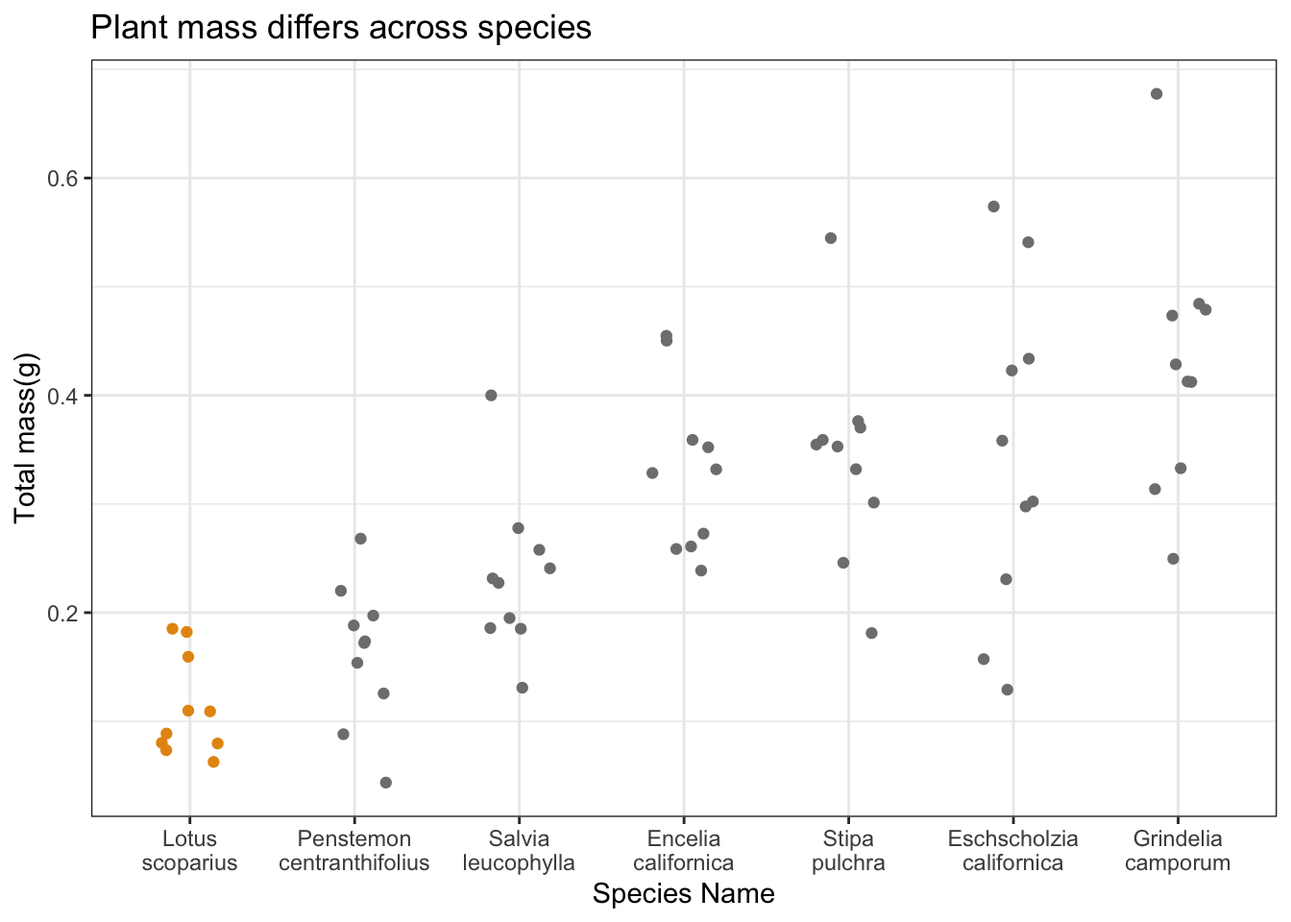
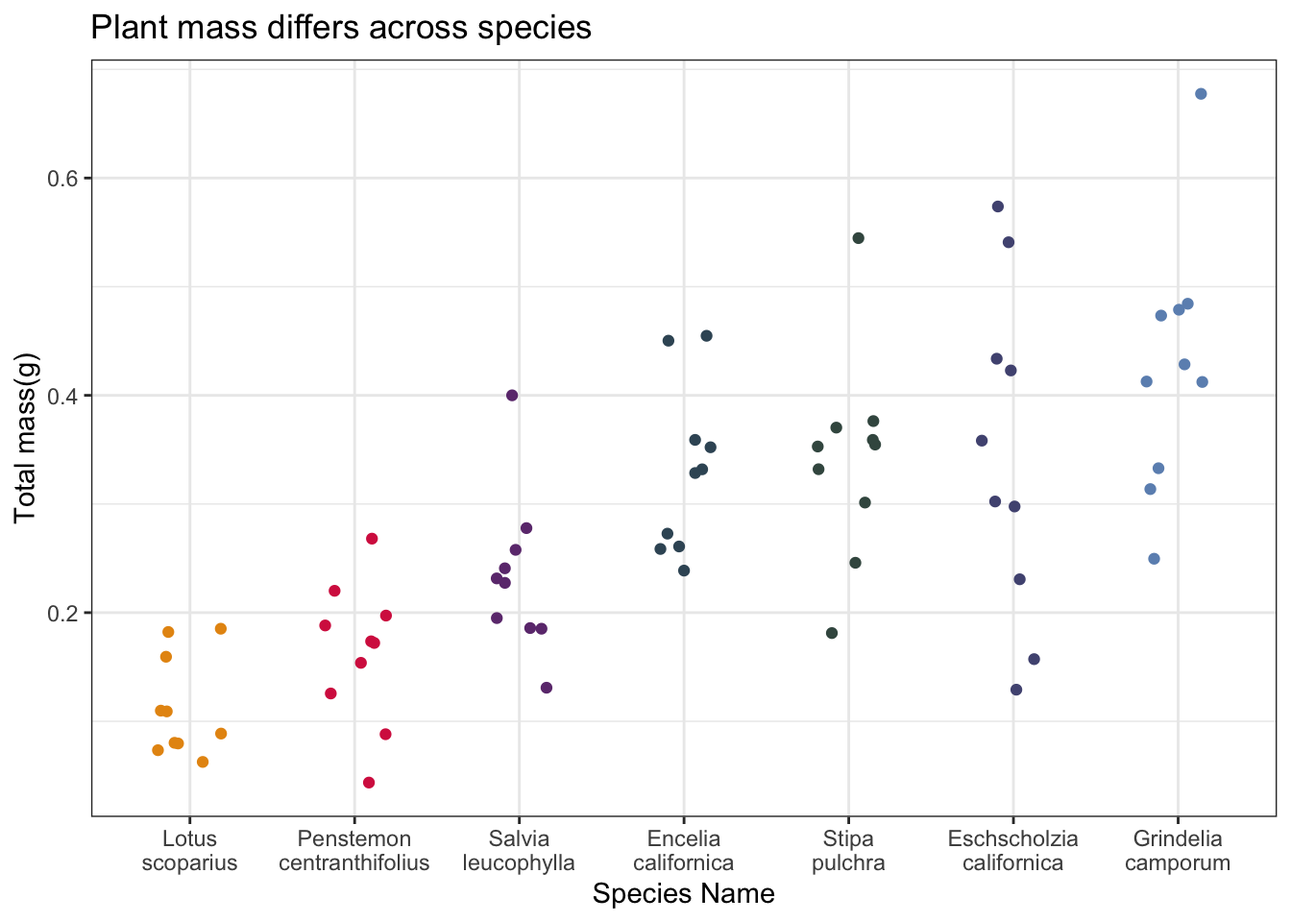
making changes in code

diff --git a/code/workshop-code.html b/code/workshop-code.html
@@ -73,6 +73,35 @@ pre > code.sourceCode > span > a:first-child::before { text-decoration: underlin
 <link href="workshop-code_files/libs/bootstrap/bootstrap-icons.css" rel="stylesheet">
 <link href="workshop-code_files/libs/bootstrap/bootstrap-d6a003b94517c951b2d65075d42fb01b.min.css" rel="stylesheet" append-hash="true" id="quarto-bootstrap" data-mode="light">
 
+  <script src="https://cdnjs.cloudflare.com/polyfill/v3/polyfill.min.js?features=es6"></script>
+  <script src="https://cdn.jsdelivr.net/npm/mathjax@3/es5/tex-chtml-full.js" type="text/javascript"></script>
+
+<script type="text/javascript">
+const typesetMath = (el) => {
+  if (window.MathJax) {
+    // MathJax Typeset
+    window.MathJax.typeset([el]);
+  } else if (window.katex) {
+    // KaTeX Render
+    var mathElements = el.getElementsByClassName("math");
+    var macros = [];
+    for (var i = 0; i < mathElements.length; i++) {
+      var texText = mathElements[i].firstChild;
+      if (mathElements[i].tagName == "SPAN" && texText && texText.data) {
+        window.katex.render(texText.data, mathElements[i], {
+          displayMode: mathElements[i].classList.contains('display'),
+          throwOnError: false,
+          macros: macros,
+          fleqn: false
+        });
+      }
+    }
+  }
+}
+window.Quarto = {
+  typesetMath
+};
+</script>
 
 </head>
 
@@ -300,18 +329,18 @@ pre > code.sourceCode > span > a:first-child::before { text-decoration: underlin
 <span id="cb6-4"><a href="#cb6-4" aria-hidden="true" tabindex="-1"></a>)</span></code></pre></div><button title="Copy to Clipboard" class="code-copy-button"><i class="bi"></i></button></div>
 <div class="cell-output cell-output-stdout">
 <pre><code># A tibble: 10 × 4
-   species_name               water_treatment    sla total_g
-   &lt;fct&gt;                      &lt;fct&gt;            &lt;dbl&gt;   &lt;dbl&gt;
- 1 Penstemon centranthifolius Drought stressed 179.   0.0436
- 2 Encelia californica        Well watered     170.   0.455 
- 3 Lotus scoparius            Well watered     121.   0.0887
- 4 Grindelia camporum         Well watered     213.   0.678 
- 5 Grindelia camporum         Well watered     205.   0.412 
- 6 Encelia californica        Drought stressed 196.   0.239 
- 7 Grindelia camporum         Drought stressed 172.   0.333 
- 8 Salvia leucophylla         Drought stressed  96.1  0.278 
- 9 Encelia californica        Drought stressed 192.   0.261 
-10 Encelia californica        Drought stressed 171.   0.259 </code></pre>
+   species_name        water_treatment    sla total_g
+   &lt;fct&gt;               &lt;fct&gt;            &lt;dbl&gt;   &lt;dbl&gt;
+ 1 Encelia californica Well watered      222.   0.352
+ 2 Stipa pulchra       Well watered      234.   0.545
+ 3 Grindelia camporum  Well watered      213.   0.678
+ 4 Lotus scoparius     Well watered      123.   0.182
+ 5 Lotus scoparius     Well watered      140.   0.110
+ 6 Grindelia camporum  Drought stressed  171.   0.250
+ 7 Encelia californica Drought stressed  161.   0.273
+ 8 Stipa pulchra       Drought stressed  140.   0.359
+ 9 Encelia californica Well watered      215.   0.328
+10 Grindelia camporum  Well watered      221.   0.473</code></pre>
 </div>
 </div>
 </section>
@@ -385,12 +414,12 @@ pre > code.sourceCode > span > a:first-child::before { text-decoration: underlin
 <span id="cb10-7"><a href="#cb10-7" aria-hidden="true" tabindex="-1"></a>              <span class="at">width =</span> <span class="fl">0.2</span>) <span class="sc">+</span></span>
 <span id="cb10-8"><a href="#cb10-8" aria-hidden="true" tabindex="-1"></a>  <span class="fu">scale_color_manual</span>(<span class="at">values =</span> <span class="fu">c</span>(</span>
 <span id="cb10-9"><a href="#cb10-9" aria-hidden="true" tabindex="-1"></a>    <span class="st">"Lotus scoparius"</span> <span class="ot">=</span> lotsco_col,</span>
-<span id="cb10-10"><a href="#cb10-10" aria-hidden="true" tabindex="-1"></a>    <span class="st">"enstameon centrathifolius"</span> <span class="ot">=</span> pencen_col,</span>
-<span id="cb10-11"><a href="#cb10-11" aria-hidden="true" tabindex="-1"></a>    <span class="st">"salvia leucophylla"</span> <span class="ot">=</span> salleu_col,</span>
-<span id="cb10-12"><a href="#cb10-12" aria-hidden="true" tabindex="-1"></a>    <span class="st">"encelia californica"</span> <span class="ot">=</span> enccal_col,</span>
-<span id="cb10-13"><a href="#cb10-13" aria-hidden="true" tabindex="-1"></a>    <span class="st">"sripe pulchra"</span> <span class="ot">=</span> stipul_col,</span>
-<span id="cb10-14"><a href="#cb10-14" aria-hidden="true" tabindex="-1"></a>    <span class="st">"eschsechalzia californica"</span> <span class="ot">=</span> esccal_col,</span>
-<span id="cb10-15"><a href="#cb10-15" aria-hidden="true" tabindex="-1"></a>    <span class="st">"grindelia camporum"</span> <span class="ot">=</span> gricam_col</span>
+<span id="cb10-10"><a href="#cb10-10" aria-hidden="true" tabindex="-1"></a>    <span class="st">"Penstemon centranthifolius"</span> <span class="ot">=</span> pencen_col,</span>
+<span id="cb10-11"><a href="#cb10-11" aria-hidden="true" tabindex="-1"></a>    <span class="st">"Salvia leucophylla"</span> <span class="ot">=</span> salleu_col,</span>
+<span id="cb10-12"><a href="#cb10-12" aria-hidden="true" tabindex="-1"></a>    <span class="st">"Encelia californica"</span> <span class="ot">=</span> enccal_col,</span>
+<span id="cb10-13"><a href="#cb10-13" aria-hidden="true" tabindex="-1"></a>    <span class="st">"Stipa pulchra"</span> <span class="ot">=</span> stipul_col,</span>
+<span id="cb10-14"><a href="#cb10-14" aria-hidden="true" tabindex="-1"></a>    <span class="st">"Eschscholzia californica"</span> <span class="ot">=</span> esccal_col,</span>
+<span id="cb10-15"><a href="#cb10-15" aria-hidden="true" tabindex="-1"></a>    <span class="st">"Grindelia camporum"</span> <span class="ot">=</span> gricam_col</span>
 <span id="cb10-16"><a href="#cb10-16" aria-hidden="true" tabindex="-1"></a>  )) <span class="sc">+</span></span>
 <span id="cb10-17"><a href="#cb10-17" aria-hidden="true" tabindex="-1"></a>  <span class="fu">scale_x_discrete</span>(<span class="at">labels =</span> <span class="fu">label_wrap</span>(<span class="dv">10</span>)) <span class="sc">+</span></span>
 <span id="cb10-18"><a href="#cb10-18" aria-hidden="true" tabindex="-1"></a>  <span class="fu">labs</span>(<span class="at">x =</span> <span class="st">"Species Name"</span>,</span>
@@ -490,55 +519,151 @@ pre > code.sourceCode > span > a:first-child::before { text-decoration: underlin
 <h2 class="anchored" data-anchor-id="model-fitting">Model fitting</h2>
 <div class="cell">
 <div class="code-copy-outer-scaffold"><div class="sourceCode cell-code" id="cb11"><pre class="sourceCode r code-with-copy"><code class="sourceCode r"><span id="cb11-1"><a href="#cb11-1" aria-hidden="true" tabindex="-1"></a><span class="co"># model 0: null model</span></span>
-<span id="cb11-2"><a href="#cb11-2" aria-hidden="true" tabindex="-1"></a></span>
-<span id="cb11-3"><a href="#cb11-3" aria-hidden="true" tabindex="-1"></a></span>
-<span id="cb11-4"><a href="#cb11-4" aria-hidden="true" tabindex="-1"></a><span class="co"># model 1: all predictors</span></span>
-<span id="cb11-5"><a href="#cb11-5" aria-hidden="true" tabindex="-1"></a></span>
+<span id="cb11-2"><a href="#cb11-2" aria-hidden="true" tabindex="-1"></a>model0 <span class="ot">&lt;-</span> <span class="fu">lm</span>(</span>
+<span id="cb11-3"><a href="#cb11-3" aria-hidden="true" tabindex="-1"></a>  total_g <span class="sc">~</span> <span class="dv">1</span>, <span class="co"># no predictors in this model</span></span>
+<span id="cb11-4"><a href="#cb11-4" aria-hidden="true" tabindex="-1"></a>  <span class="at">data =</span> drought_exp_clean</span>
+<span id="cb11-5"><a href="#cb11-5" aria-hidden="true" tabindex="-1"></a>)</span>
 <span id="cb11-6"><a href="#cb11-6" aria-hidden="true" tabindex="-1"></a></span>
-<span id="cb11-7"><a href="#cb11-7" aria-hidden="true" tabindex="-1"></a><span class="co"># model 2: SLA and water treatment</span></span>
-<span id="cb11-8"><a href="#cb11-8" aria-hidden="true" tabindex="-1"></a></span>
-<span id="cb11-9"><a href="#cb11-9" aria-hidden="true" tabindex="-1"></a></span>
-<span id="cb11-10"><a href="#cb11-10" aria-hidden="true" tabindex="-1"></a><span class="co"># model 3: SLA and species</span></span>
-<span id="cb11-11"><a href="#cb11-11" aria-hidden="true" tabindex="-1"></a></span>
+<span id="cb11-7"><a href="#cb11-7" aria-hidden="true" tabindex="-1"></a><span class="co"># model 1: all predictors</span></span>
+<span id="cb11-8"><a href="#cb11-8" aria-hidden="true" tabindex="-1"></a>model1 <span class="ot">&lt;-</span> <span class="fu">lm</span>(</span>
+<span id="cb11-9"><a href="#cb11-9" aria-hidden="true" tabindex="-1"></a>  total_g <span class="sc">~</span> sla <span class="sc">+</span> water_treatment <span class="sc">+</span> species_name,</span>
+<span id="cb11-10"><a href="#cb11-10" aria-hidden="true" tabindex="-1"></a>  <span class="at">data =</span> drought_exp_clean</span>
+<span id="cb11-11"><a href="#cb11-11" aria-hidden="true" tabindex="-1"></a>)</span>
 <span id="cb11-12"><a href="#cb11-12" aria-hidden="true" tabindex="-1"></a></span>
-<span id="cb11-13"><a href="#cb11-13" aria-hidden="true" tabindex="-1"></a><span class="co"># model 4: water treatment and species</span></span>
-<span id="cb11-14"><a href="#cb11-14" aria-hidden="true" tabindex="-1"></a></span>
-<span id="cb11-15"><a href="#cb11-15" aria-hidden="true" tabindex="-1"></a></span>
-<span id="cb11-16"><a href="#cb11-16" aria-hidden="true" tabindex="-1"></a><span class="co"># model 5: SLA</span></span>
-<span id="cb11-17"><a href="#cb11-17" aria-hidden="true" tabindex="-1"></a></span>
-<span id="cb11-18"><a href="#cb11-18" aria-hidden="true" tabindex="-1"></a></span>
-<span id="cb11-19"><a href="#cb11-19" aria-hidden="true" tabindex="-1"></a><span class="co"># model 6: water treatment</span></span>
-<span id="cb11-20"><a href="#cb11-20" aria-hidden="true" tabindex="-1"></a></span>
-<span id="cb11-21"><a href="#cb11-21" aria-hidden="true" tabindex="-1"></a></span>
-<span id="cb11-22"><a href="#cb11-22" aria-hidden="true" tabindex="-1"></a><span class="co"># model 7: species</span></span></code></pre></div><button title="Copy to Clipboard" class="code-copy-button"><i class="bi"></i></button></div>
+<span id="cb11-13"><a href="#cb11-13" aria-hidden="true" tabindex="-1"></a><span class="co"># model 2: SLA and water treatment</span></span>
+<span id="cb11-14"><a href="#cb11-14" aria-hidden="true" tabindex="-1"></a>model2 <span class="ot">&lt;-</span> <span class="fu">lm</span>(</span>
+<span id="cb11-15"><a href="#cb11-15" aria-hidden="true" tabindex="-1"></a>  total_g <span class="sc">~</span> sla <span class="sc">+</span> water_treatment,</span>
+<span id="cb11-16"><a href="#cb11-16" aria-hidden="true" tabindex="-1"></a>  <span class="at">data =</span> drought_exp_clean</span>
+<span id="cb11-17"><a href="#cb11-17" aria-hidden="true" tabindex="-1"></a>)</span>
+<span id="cb11-18"><a href="#cb11-18" aria-hidden="true" tabindex="-1"></a><span class="co"># model 3: SLA and species</span></span>
+<span id="cb11-19"><a href="#cb11-19" aria-hidden="true" tabindex="-1"></a></span>
+<span id="cb11-20"><a href="#cb11-20" aria-hidden="true" tabindex="-1"></a>model3 <span class="ot">&lt;-</span> <span class="fu">lm</span>(</span>
+<span id="cb11-21"><a href="#cb11-21" aria-hidden="true" tabindex="-1"></a>  total_g <span class="sc">~</span> sla <span class="sc">+</span> species_name,</span>
+<span id="cb11-22"><a href="#cb11-22" aria-hidden="true" tabindex="-1"></a>  <span class="at">data =</span> drought_exp_clean</span>
+<span id="cb11-23"><a href="#cb11-23" aria-hidden="true" tabindex="-1"></a>)</span>
+<span id="cb11-24"><a href="#cb11-24" aria-hidden="true" tabindex="-1"></a><span class="co"># model 4: water treatment and species</span></span>
+<span id="cb11-25"><a href="#cb11-25" aria-hidden="true" tabindex="-1"></a></span>
+<span id="cb11-26"><a href="#cb11-26" aria-hidden="true" tabindex="-1"></a>model4 <span class="ot">&lt;-</span> <span class="fu">lm</span>(</span>
+<span id="cb11-27"><a href="#cb11-27" aria-hidden="true" tabindex="-1"></a>  total_g <span class="sc">~</span> water_treatment <span class="sc">+</span> species_name,</span>
+<span id="cb11-28"><a href="#cb11-28" aria-hidden="true" tabindex="-1"></a>  <span class="at">data =</span> drought_exp_clean</span>
+<span id="cb11-29"><a href="#cb11-29" aria-hidden="true" tabindex="-1"></a>)</span>
+<span id="cb11-30"><a href="#cb11-30" aria-hidden="true" tabindex="-1"></a><span class="co"># model 5: SLA</span></span>
+<span id="cb11-31"><a href="#cb11-31" aria-hidden="true" tabindex="-1"></a>model5 <span class="ot">&lt;-</span> <span class="fu">lm</span>(</span>
+<span id="cb11-32"><a href="#cb11-32" aria-hidden="true" tabindex="-1"></a>  total_g <span class="sc">~</span> sla,</span>
+<span id="cb11-33"><a href="#cb11-33" aria-hidden="true" tabindex="-1"></a>  <span class="at">data =</span> drought_exp_clean</span>
+<span id="cb11-34"><a href="#cb11-34" aria-hidden="true" tabindex="-1"></a>)</span>
+<span id="cb11-35"><a href="#cb11-35" aria-hidden="true" tabindex="-1"></a></span>
+<span id="cb11-36"><a href="#cb11-36" aria-hidden="true" tabindex="-1"></a><span class="co"># model 6: water treatment</span></span>
+<span id="cb11-37"><a href="#cb11-37" aria-hidden="true" tabindex="-1"></a>model6 <span class="ot">&lt;-</span> <span class="fu">lm</span>(</span>
+<span id="cb11-38"><a href="#cb11-38" aria-hidden="true" tabindex="-1"></a>  total_g <span class="sc">~</span> water_treatment,</span>
+<span id="cb11-39"><a href="#cb11-39" aria-hidden="true" tabindex="-1"></a>  <span class="at">data =</span> drought_exp_clean</span>
+<span id="cb11-40"><a href="#cb11-40" aria-hidden="true" tabindex="-1"></a>)</span>
+<span id="cb11-41"><a href="#cb11-41" aria-hidden="true" tabindex="-1"></a></span>
+<span id="cb11-42"><a href="#cb11-42" aria-hidden="true" tabindex="-1"></a><span class="co"># model 7: species</span></span>
+<span id="cb11-43"><a href="#cb11-43" aria-hidden="true" tabindex="-1"></a>model7 <span class="ot">&lt;-</span> <span class="fu">lm</span>(</span>
+<span id="cb11-44"><a href="#cb11-44" aria-hidden="true" tabindex="-1"></a>  total_g <span class="sc">~</span> species_name,</span>
+<span id="cb11-45"><a href="#cb11-45" aria-hidden="true" tabindex="-1"></a>  <span class="at">data =</span> drought_exp_clean</span>
+<span id="cb11-46"><a href="#cb11-46" aria-hidden="true" tabindex="-1"></a>)</span></code></pre></div><button title="Copy to Clipboard" class="code-copy-button"><i class="bi"></i></button></div>
 </div>
 </section>
 <section id="model-selection" class="level2">
 <h2 class="anchored" data-anchor-id="model-selection">Model selection</h2>
 <p>Insert code to use the <code>AICc()</code> function to calculate the AIC for each model.</p>
 <p>Arrange by decreasing AIC.</p>
+<div class="cell">
+<div class="code-copy-outer-scaffold"><div class="sourceCode cell-code" id="cb12"><pre class="sourceCode r code-with-copy"><code class="sourceCode r"><span id="cb12-1"><a href="#cb12-1" aria-hidden="true" tabindex="-1"></a><span class="fu">AICc</span>(</span>
+<span id="cb12-2"><a href="#cb12-2" aria-hidden="true" tabindex="-1"></a>  model0,</span>
+<span id="cb12-3"><a href="#cb12-3" aria-hidden="true" tabindex="-1"></a>  model1,</span>
+<span id="cb12-4"><a href="#cb12-4" aria-hidden="true" tabindex="-1"></a>  model2,</span>
+<span id="cb12-5"><a href="#cb12-5" aria-hidden="true" tabindex="-1"></a>  model3,</span>
+<span id="cb12-6"><a href="#cb12-6" aria-hidden="true" tabindex="-1"></a>  model4,</span>
+<span id="cb12-7"><a href="#cb12-7" aria-hidden="true" tabindex="-1"></a>  model5,</span>
+<span id="cb12-8"><a href="#cb12-8" aria-hidden="true" tabindex="-1"></a>  model6,</span>
+<span id="cb12-9"><a href="#cb12-9" aria-hidden="true" tabindex="-1"></a>  model7</span>
+<span id="cb12-10"><a href="#cb12-10" aria-hidden="true" tabindex="-1"></a>) <span class="sc">|&gt;</span> </span>
+<span id="cb12-11"><a href="#cb12-11" aria-hidden="true" tabindex="-1"></a>  <span class="fu">arrange</span>(AICc)</span></code></pre></div><button title="Copy to Clipboard" class="code-copy-button"><i class="bi"></i></button></div>
+<div class="cell-output cell-output-stdout">
+<pre><code>       df       AICc
+model4  9 -156.19595
+model1 10 -153.75361
+model3  9 -124.07569
+model7  8 -120.30191
+model2  4  -95.82521
+model5  3  -88.85180
+model6  3  -86.76661
+model0  2  -74.98036</code></pre>
+</div>
+</div>
+<p>The best model to describe variation in plant mass only includes water treatment and species.</p>
 </section>
 <section id="model-diagnostics" class="level2">
 <h2 class="anchored" data-anchor-id="model-diagnostics">Model diagnostics</h2>
 <p>Insert code to look at the diagnostic plots for the best model.</p>
+<div class="cell">
+<div class="code-copy-outer-scaffold"><div class="sourceCode cell-code" id="cb14"><pre class="sourceCode r code-with-copy"><code class="sourceCode r"><span id="cb14-1"><a href="#cb14-1" aria-hidden="true" tabindex="-1"></a><span class="fu">par</span>(<span class="at">mfrow =</span> <span class="fu">c</span>(<span class="dv">2</span>,<span class="dv">2</span>)) <span class="co"># display plots in a 2x2 grid</span></span>
+<span id="cb14-2"><a href="#cb14-2" aria-hidden="true" tabindex="-1"></a><span class="fu">plot</span>(model4) <span class="co">#model to check diagnostics</span></span></code></pre></div><button title="Copy to Clipboard" class="code-copy-button"><i class="bi"></i></button></div>
+<div class="cell-output-display">
+<div>
+<figure class="figure">
+<p><img src="workshop-code_files/figure-html/checking%20diagnostics-1.png" class="img-fluid figure-img" width="672"></p>
+</figure>
+</div>
+</div>
+</div>
+<p>Diagnostics plot look good Residuals (standing in for errors) No outliers influencing model estimates of coefficients.</p>
 </section>
 <section id="summary" class="level2">
 <h2 class="anchored" data-anchor-id="summary">Summary</h2>
 <p>Insert code to display the summary for the best model.</p>
+<div class="cell">
+<div class="code-copy-outer-scaffold"><div class="sourceCode cell-code" id="cb15"><pre class="sourceCode r code-with-copy"><code class="sourceCode r"><span id="cb15-1"><a href="#cb15-1" aria-hidden="true" tabindex="-1"></a><span class="fu">summary</span>(model4)</span></code></pre></div><button title="Copy to Clipboard" class="code-copy-button"><i class="bi"></i></button></div>
+<div class="cell-output cell-output-stdout">
+<pre><code>
+Call:
+lm(formula = total_g ~ water_treatment + species_name, data = drought_exp_clean)
+
+Residuals:
+      Min        1Q    Median        3Q       Max 
+-0.157087 -0.046953 -0.003733  0.041244  0.192657 
+
+Coefficients:
+                                       Estimate Std. Error t value Pr(&gt;|t|)    
+(Intercept)                             0.05455    0.02451   2.225  0.02973 *  
+water_treatmentWell watered             0.11695    0.01733   6.746 5.90e-09 ***
+species_namePenstemon centranthifolius  0.05003    0.03243   1.543  0.12799    
+species_nameSalvia leucophylla          0.12020    0.03243   3.706  0.00045 ***
+species_nameEncelia californica         0.21774    0.03243   6.714 6.70e-09 ***
+species_nameStipa pulchra               0.22881    0.03243   7.055 1.72e-09 ***
+species_nameEschscholzia californica    0.23164    0.03243   7.143 1.22e-09 ***
+species_nameGrindelia camporum          0.31335    0.03243   9.662 5.53e-14 ***
+---
+Signif. codes:  0 '***' 0.001 '**' 0.01 '*' 0.05 '.' 0.1 ' ' 1
+
+Residual standard error: 0.07252 on 62 degrees of freedom
+Multiple R-squared:  0.7535,    Adjusted R-squared:  0.7257 
+F-statistic: 27.08 on 7 and 62 DF,  p-value: &lt; 2.2e-16</code></pre>
+</div>
+</div>
 <p><strong>What are the reference levels?</strong></p>
+<p>Drought stressed and Lotus scoparius.</p>
 <p><strong>What does the <code>(Intercept)</code> represent?</strong></p>
+<p>The intercept is the model prediction for plant mass for Lotus scoparius in the drought stressed treatment.The model predicts that lotus scoparius mass in the drought stressed treatment will be 0.055 <span class="math inline">\(\pm\)</span> 0.025 (SE) g.</p>
 <p><strong>What does <code>water_treatmentWell watered</code> represent?</strong></p>
-<p><strong>What does <code>species_namePenstemon centranthifolius</code> represent?</strong></p>
+<p>This is the model prediction for the difference for Lotus scoparius mass between the well watered and the drought stressed treatments. The model predicts that this difference is 0.12 <span class="math inline">\(\pm\)</span> 0.017 g.</p>
+<p><strong>What does <code>species_namePenstemon centranthifolius</code> represent?</strong><br>
+This is the model prediction for the difference between Penstemon centranthifolius mass in the well watered treatment and Lotus scoparius mass in the well watered treatment. The model predicts that this differnce is 0.05 <span class="math inline">\(\pm\)</span> 0.03 g.</p>
 <p><strong>What does <code>species_nameEschscholzia californica</code> represent?</strong></p>
+<p>This is the model prediction for the diffrence between Eschscholzia californica mass in the well watered treatment and Lotus scoparius mass in the well watered treatment. The model predicts that this difference is 0.23 <span class="math inline">\(\pm\)</span> 0.03g.</p>
 </section>
 <section id="stop-and-think-what-does-this-model-mean" class="level2">
 <h2 class="anchored" data-anchor-id="stop-and-think-what-does-this-model-mean">Stop and think: what does this model mean?</h2>
 <p><strong>What is the best model?</strong></p>
-<p>[insert your response here]</p>
+<p>The best model includes water treatment and species as predictors</p>
 <p><strong>How much variation in the response (total mass, in grams) does this model explain?</strong></p>
-<p>[insert your response here]</p>
+<p>72% of the cariation in plant mass can be explained by this model.</p>
 <p><strong>How do we interpret the effects of the predictors on the response variable (again, total mass in grams)?</strong></p>
-<p>[insert your response here]</p>
+<p>Treatment influences plant mass.</p>
+<p>Species influences plant mass.</p>
 </section>
 </section>
 <section id="model-predictions" class="level1">
@@ -546,10 +671,56 @@ pre > code.sourceCode > span > a:first-child::before { text-decoration: underlin
 <p>Insert code to generate model predictions for the best model.</p>
 <p>Rename the <code>x</code> column and <code>group</code> column to match the original data frame (<code>drought_exp_clean</code>).</p>
 <p>Look at the object before plotting.</p>
+<div class="cell">
+<div class="code-copy-outer-scaffold"><div class="sourceCode cell-code" id="cb17"><pre class="sourceCode r code-with-copy"><code class="sourceCode r"><span id="cb17-1"><a href="#cb17-1" aria-hidden="true" tabindex="-1"></a>preds <span class="ot">&lt;-</span> <span class="fu">ggpredict</span>(</span>
+<span id="cb17-2"><a href="#cb17-2" aria-hidden="true" tabindex="-1"></a>  model4,</span>
+<span id="cb17-3"><a href="#cb17-3" aria-hidden="true" tabindex="-1"></a>  <span class="at">terms =</span> <span class="fu">c</span>(<span class="st">"water_treatment"</span>,<span class="st">"species_name"</span>)</span>
+<span id="cb17-4"><a href="#cb17-4" aria-hidden="true" tabindex="-1"></a>) <span class="sc">|&gt;</span></span>
+<span id="cb17-5"><a href="#cb17-5" aria-hidden="true" tabindex="-1"></a>  <span class="fu">rename</span>(<span class="at">water_treatment =</span> x,</span>
+<span id="cb17-6"><a href="#cb17-6" aria-hidden="true" tabindex="-1"></a>         <span class="at">species_name =</span> group)</span></code></pre></div><button title="Copy to Clipboard" class="code-copy-button"><i class="bi"></i></button></div>
+</div>
 </section>
 <section id="final-figure" class="level1">
 <h1>5. Final figure</h1>
 <p>Create a clean, publication ready figure depicting predictions for the best model and the underlying data.</p>
+<div class="cell">
+<div class="code-copy-outer-scaffold"><div class="sourceCode cell-code" id="cb18"><pre class="sourceCode r code-with-copy"><code class="sourceCode r"><span id="cb18-1"><a href="#cb18-1" aria-hidden="true" tabindex="-1"></a><span class="fu">ggplot</span>(<span class="at">data =</span> drought_exp_clean,</span>
+<span id="cb18-2"><a href="#cb18-2" aria-hidden="true" tabindex="-1"></a>       <span class="fu">aes</span>(<span class="at">x =</span> species_name,</span>
+<span id="cb18-3"><a href="#cb18-3" aria-hidden="true" tabindex="-1"></a>           <span class="at">y =</span> total_g,</span>
+<span id="cb18-4"><a href="#cb18-4" aria-hidden="true" tabindex="-1"></a>           <span class="at">color =</span> water_treatment)) <span class="sc">+</span></span>
+<span id="cb18-5"><a href="#cb18-5" aria-hidden="true" tabindex="-1"></a>  <span class="fu">geom_jitter</span>(<span class="at">height =</span> <span class="dv">0</span>,</span>
+<span id="cb18-6"><a href="#cb18-6" aria-hidden="true" tabindex="-1"></a>              <span class="at">width =</span> <span class="fl">0.2</span>,</span>
+<span id="cb18-7"><a href="#cb18-7" aria-hidden="true" tabindex="-1"></a>              <span class="at">alpha =</span> <span class="fl">0.5</span>) <span class="sc">+</span></span>
+<span id="cb18-8"><a href="#cb18-8" aria-hidden="true" tabindex="-1"></a>  <span class="fu">geom_pointrange</span>(<span class="at">data =</span> preds,</span>
+<span id="cb18-9"><a href="#cb18-9" aria-hidden="true" tabindex="-1"></a>                  <span class="fu">aes</span>(<span class="at">x =</span> water_treatment,</span>
+<span id="cb18-10"><a href="#cb18-10" aria-hidden="true" tabindex="-1"></a>                      <span class="at">y =</span> predicted,</span>
+<span id="cb18-11"><a href="#cb18-11" aria-hidden="true" tabindex="-1"></a>                      <span class="at">ymin =</span> conf.low,</span>
+<span id="cb18-12"><a href="#cb18-12" aria-hidden="true" tabindex="-1"></a>                      <span class="at">ymax =</span> conf.high)) <span class="sc">+</span></span>
+<span id="cb18-13"><a href="#cb18-13" aria-hidden="true" tabindex="-1"></a></span>
+<span id="cb18-14"><a href="#cb18-14" aria-hidden="true" tabindex="-1"></a>  <span class="fu">scale_color_manual</span>(<span class="at">values =</span> <span class="fu">c</span>(</span>
+<span id="cb18-15"><a href="#cb18-15" aria-hidden="true" tabindex="-1"></a>    <span class="st">"Lotus scoparius"</span> <span class="ot">=</span> lotsco_col,</span>
+<span id="cb18-16"><a href="#cb18-16" aria-hidden="true" tabindex="-1"></a>    <span class="st">"Penstemon centranthifolius"</span> <span class="ot">=</span> pencen_col,</span>
+<span id="cb18-17"><a href="#cb18-17" aria-hidden="true" tabindex="-1"></a>    <span class="st">"Salvia leucophylla"</span> <span class="ot">=</span> salleu_col,</span>
+<span id="cb18-18"><a href="#cb18-18" aria-hidden="true" tabindex="-1"></a>    <span class="st">"Encelia californica"</span> <span class="ot">=</span> enccal_col,</span>
+<span id="cb18-19"><a href="#cb18-19" aria-hidden="true" tabindex="-1"></a>    <span class="st">"Stipa pulchra"</span> <span class="ot">=</span> stipul_col,</span>
+<span id="cb18-20"><a href="#cb18-20" aria-hidden="true" tabindex="-1"></a>    <span class="st">"Eschscholzia californica"</span> <span class="ot">=</span> esccal_col,</span>
+<span id="cb18-21"><a href="#cb18-21" aria-hidden="true" tabindex="-1"></a>    <span class="st">"Grindelia camporum"</span> <span class="ot">=</span> gricam_col</span>
+<span id="cb18-22"><a href="#cb18-22" aria-hidden="true" tabindex="-1"></a>  )) <span class="sc">+</span></span>
+<span id="cb18-23"><a href="#cb18-23" aria-hidden="true" tabindex="-1"></a>  <span class="fu">scale_x_discrete</span>(<span class="at">labels =</span> <span class="fu">label_wrap</span>(<span class="dv">10</span>)) <span class="sc">+</span></span>
+<span id="cb18-24"><a href="#cb18-24" aria-hidden="true" tabindex="-1"></a>  <span class="fu">labs</span>(<span class="at">x =</span> <span class="st">"Species Name"</span>,</span>
+<span id="cb18-25"><a href="#cb18-25" aria-hidden="true" tabindex="-1"></a>       <span class="at">y =</span> <span class="st">"Total mass(g)"</span>,</span>
+<span id="cb18-26"><a href="#cb18-26" aria-hidden="true" tabindex="-1"></a>       <span class="at">title =</span> <span class="st">"Plant mass differs across species"</span>) <span class="sc">+</span></span>
+<span id="cb18-27"><a href="#cb18-27" aria-hidden="true" tabindex="-1"></a>  <span class="fu">theme</span>(<span class="at">legend.position =</span><span class="st">"none"</span>) <span class="sc">+</span></span>
+<span id="cb18-28"><a href="#cb18-28" aria-hidden="true" tabindex="-1"></a>  <span class="fu">facet_wrap</span>(<span class="sc">~</span> species_name,</span>
+<span id="cb18-29"><a href="#cb18-29" aria-hidden="true" tabindex="-1"></a>             <span class="at">nrow =</span> <span class="dv">1</span>)</span></code></pre></div><button title="Copy to Clipboard" class="code-copy-button"><i class="bi"></i></button></div>
+<div class="cell-output-display">
+<div>
+<figure class="figure">
+<p><img src="workshop-code_files/figure-html/unnamed-chunk-1-1.png" class="img-fluid figure-img" width="672"></p>
+</figure>
+</div>
+</div>
+</div>
 </section>
 <section id="writing" class="level1">
 <h1>6. Writing</h1>
